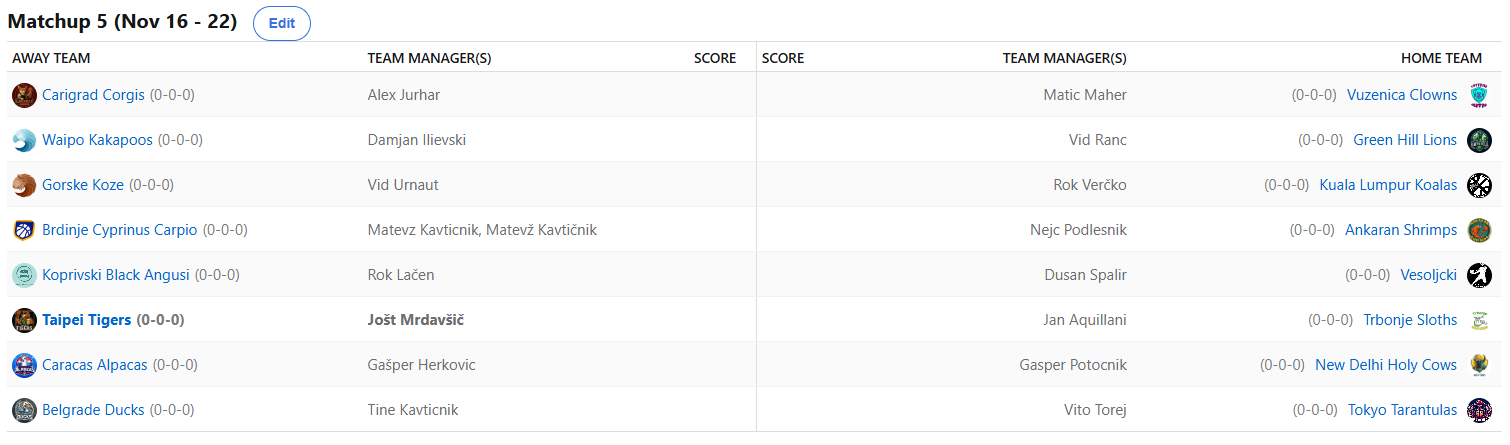
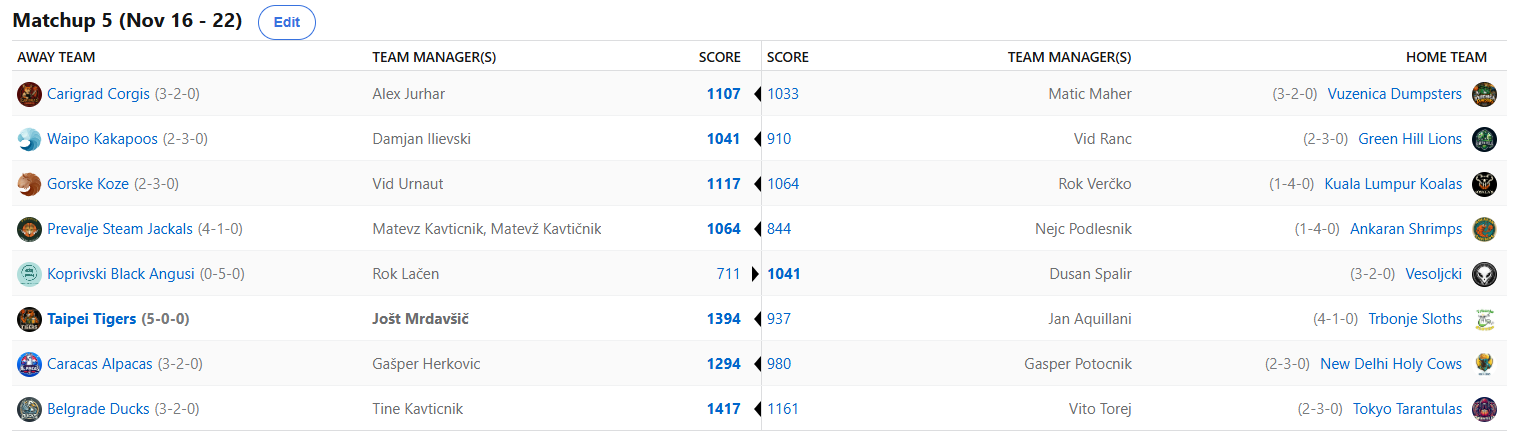
.

diff --git a/trenutnalestvica.html b/trenutnalestvica.html
@@ -25,116 +25,169 @@
         <tr>
             <th style="background-color: green">1</th>
             <th style="background-color: green">Taipei Tigers</th>
-            <th style="background-color: green">4</th>
+            <th style="background-color: green">5</th>
             <th style="background-color: green">0</th>
             <th style="background-color: green">100%</th>
         </tr>
         <tr>
             <th style="background-color: green">2</th>
-            <th style="background-color: green">Trbonje Sloths</th>
+            <th style="background-color: green">Prevalje Steam Jackals</th>
             <th style="background-color: green">4</th>
-            <th style="background-color: green">0</th>
-            <th style="background-color: green">100%</th>
+            <th style="background-color: green">1</th>
+            <th style="background-color: green">80%</th>
         </tr>
         <tr>
             <th>3</th>
-            <th>Vuzenica Dumpsters</th>
-            <th>3</th>
+            <th>Trbonje Sloths</th>
+            <th>4</th>
             <th>1</th>
-            <th>75%</th>
+            <th>80%</th>
         </tr>
         <tr>
             <th>4</th>
-            <th>Prevalje Steam Jackals</th>
+            <th>Caracas Alpacas</th>
             <th>3</th>
-            <th>1</th>
-            <th>75%</th>
+            <th>2</th>
+            <th>60%</th>
         </tr>
         <tr>
             <th>5</th>
-            <th>Tokyo Tarantulas</th>
+            <th>Belgrade Ducks</th>
+            <th>3</th>
             <th>2</th>
-            <th>2</th>
-            <th>50%</th>
+            <th>60%</th>
         </tr>
         <tr>
             <th>6</th>
-            <th>Caracas Alpacas</th>
+            <th>Vuzenica Dumpsters</th>
+            <th>3</th>
             <th>2</th>
-            <th>2</th>
-            <th>50%</th>
+            <th>60%</th>
         </tr>
         <tr>
             <th>7</th>
-            <th>Belgrade Ducks</th>
+            <th>Carigrad Corgis</th>
+            <th>3</th>
             <th>2</th>
-            <th>2</th>
-            <th>50%</th>
+            <th>60%</th>
         </tr>
         <tr>
             <th>8</th>
-            <th>Carigrad Corgis</th>
+            <th>Veseli Vesoljčki</th>
+            <th>3</th>
             <th>2</th>
-            <th>2</th>
-            <th>50%</th>
+            <th>60%</th>
         </tr>
         <tr>
             <th>9</th>
-            <th>Green Hill Lions</th>
+            <th>Tokyo Tarantulas</th>
             <th>2</th>
-            <th>2</th>
-            <th>50%</th>
+            <th>3</th>
+            <th>40%</th>
         </tr>
         <tr>
             <th>10</th>
-            <th>New Delhi Holy Cows</th>
+            <th>Gorske Koze</th>
             <th>2</th>
-            <th>2</th>
-            <th>50%</th>
+            <th>3</th>
+            <th>40%</th>
         </tr>
         <tr>
             <th>11</th>
-            <th>Veseli Vesoljčki</th>
+            <th>Green Hill Lions</th>
             <th>2</th>
-            <th>2</th>
-            <th>50%</th>
+            <th>3</th>
+            <th>40%</th>
         </tr>
         <tr>
             <th>12</th>
-            <th>Gorske Koze</th>
-            <th>1</th>
+            <th>New Delhi Holy Cows</th>
+            <th>2</th>
             <th>3</th>
-            <th>25%</th>
+            <th>40%</th>
         </tr>
         <tr>
             <th>13</th>
             <th>Waipo Kakapos</th>
-            <th>1</th>
+            <th>2</th>
             <th>3</th>
-            <th>25%</th>
+            <th>40%</th>
         </tr>
         <tr>
             <th>14</th>
-            <th>Ankaran Shrimps</th>
+            <th>Kuala Lumpur Koalas</th>
             <th>1</th>
-            <th>3</th>
-            <th>25%</th>
+            <th>4</th>
+            <th>20%</th>
         </tr>
         <tr>
             <th style="background-color: red">15</th>
-            <th style="background-color: red">Kuala Lumpur Koalas</th>
+            <th style="background-color: red">Ankaran Shrimps</th>
             <th style="background-color: red">1</th>
-            <th style="background-color: red">3</th>
-            <th style="background-color: red">25%</th>
+            <th style="background-color: red">4</th>
+            <th style="background-color: red">20%</th>
         </tr>
         <tr>
             <th style="background-color: red">16</th>
             <th style="background-color: red">Koprivski Black Angusi</th>
             <th style="background-color: red">0</th>
-            <th style="background-color: red">4</th>
+            <th style="background-color: red">5</th>
             <th style="background-color: red">0%</th>
         </tr>
     </table>  
+	
+	<h2 class="lestvica">Rezultati petega kroga</h2>
+<table style="border-collapse: collapse; width: 100%; border: none;">
+	<tr>
+        <td style="border: none; text-align: right; padding-right: 1em; color: green">🐕 Corgis</td> <!-- Ekipa 1 -->
+        <td style="border: 1px solid black; padding: 5px;background-color: green">1107</td>
+        <td style="border: 1px solid black; padding: 5px; ">1033</td>
+        <td style="border: none; text-align: left; padding-left: 1em;">Dumpsters 🗑</td> <!-- Ekipa 2 -->
+    </tr>
+	<tr>
+        <td style="border: none; text-align: right; padding-right: 1em; color: green">🦉 Kakapos   </td> <!-- Ekipa 1 -->
+        <td style="border: 1px solid black; padding: 5px; background-color: green">1041</td>
+        <td style="border: 1px solid black; padding: 5px;">910</td>
+        <td style="border: none; text-align: left; padding-left: 1em; ">Lions 🦁</td> <!-- Ekipa 2 -->
+    </tr>
+	<tr>
+        <td style="border: none; text-align: right; padding-right: 1em; color: green">🐐 Koze  </td> <!-- Ekipa 1 -->
+        <td style="border: 1px solid black; padding: 5px; background-color: green">1117</td>
+        <td style="border: 1px solid black; padding: 5px; ">1064</td>
+        <td style="border: none; text-align: left; padding-left: 1em; ">Koalas 🐨  </td> <!-- Ekipa 2 -->
+    </tr>
+	<tr>
+        <td style="border: none; text-align: right; padding-right: 1em; color: green ">🐺 Jackals   </td> <!-- Ekipa 1 -->
+        <td style="border: 1px solid black; padding: 5px; background-color: green">1064</td>
+        <td style="border: 1px solid black; padding: 5px;  ">844</td>
+        <td style="border: none; text-align: left; padding-left: 1em; ">Shrimps 🦐</td> <!-- Ekipa 2 -->
+    </tr>
+	<tr>
+        <td style="border: none; text-align: right; padding-right: 1em; ">🐮 Angusi  </td> <!-- Ekipa 1 -->
+        <td style="border: 1px solid black; padding: 5px;">711</td>
+        <td style="border: 1px solid black; padding: 5px; background-color: green ">1041</td>
+        <td style="border: none; text-align: left; padding-left: 1em; color: green  ">Vesoljčki 👽 </td> <!-- Ekipa 2 -->
+    </tr>
+	<tr>
+        <td style="border: none; text-align: right; padding-right: 1em; color: green">🐯 Tigers </td> <!-- Ekipa 1 -->
+        <td style="border: 1px solid black; padding: 5px; background-color: green">1394</td>
+        <td style="border: 1px solid black; padding: 5px;  ">937</td>
+        <td style="border: none; text-align: left; padding-left: 1em; ">Sloths 🦥</td> <!-- Ekipa 2 -->
+    </tr>
+	<tr>
+        <td style="border: none; text-align: right; padding-right: 1em;color: green">🦙 Alpacas  </td> <!-- Ekipa 1 -->
+        <td style="border: 1px solid black; padding: 5px;background-color: green">1294</td>
+        <td style="border: 1px solid black; padding: 5px; ">1980</td>
+        <td style="border: none; text-align: left; padding-left: 1em; ">Holy Cows 🐄 </td> <!-- Ekipa 2 -->
+    </tr>
+	<tr>
+        <td style="border: none; text-align: right; padding-right: 1em; color: green">🦆 Ducks  </td> <!-- Ekipa 1 -->
+        <td style="border: 1px solid black; padding: 5px;  background-color: green">1417</td>
+        <td style="border: 1px solid black; padding: 5px;">1161</td>
+        <td style="border: none; text-align: left; padding-left: 1em; ">Tarantulas 🕷  </td> <!-- Ekipa 2 -->
+    </tr>
+</table>
+	
 	
 	<h2 class="lestvica">Rezultati četrtega kroga</h2>
 <table style="border-collapse: collapse; width: 100%; border: none;">
@@ -240,63 +293,6 @@
     </tr>
 </table>
 	
-	
-	     <h2 class="lestvica">Rezultati drugega kroga</h2>
-<table style="border-collapse: collapse; width: 100%; border: none;">
-	<tr>
-        <td style="border: none; text-align: right; padding-right: 1em; ">🦐 Shrimps</td> <!-- Ekipa 1 -->
-        <td style="border: 1px solid black; padding: 5px; ">931</td>
-        <td style="border: 1px solid black; padding: 5px;background-color: green">981</td>
-        <td style="border: none; text-align: left; padding-left: 1em;color: green">Sloths 🦥 </td> <!-- Ekipa 2 -->
-    </tr>
-	<tr>
-        <td style="border: none; text-align: right; padding-right: 1em; color: green">👽 Vesoljčki </td> <!-- Ekipa 1 -->
-        <td style="border: 1px solid black; padding: 5px; background-color: green">894</td>
-        <td style="border: 1px solid black; padding: 5px;">854</td>
-        <td style="border: none; text-align: left; padding-left: 1em; ">Koalas 🐨</td> <!-- Ekipa 2 -->
-    </tr>
-	<tr>
-        <td style="border: none; text-align: right; padding-right: 1em; ">🐕 Corgis</td> <!-- Ekipa 1 -->
-        <td style="border: 1px solid black; padding: 5px; ">963</td>
-        <td style="border: 1px solid black; padding: 5px; background-color: green">1034</td>
-        <td style="border: none; text-align: left; padding-left: 1em; color: green">Lions 🦁</td> <!-- Ekipa 2 -->
-    </tr>
-	<tr>
-        <td style="border: none; text-align: right; padding-right: 1em; color: green">🐄 Holy Cows </td> <!-- Ekipa 1 -->
-        <td style="border: 1px solid black; padding: 5px; background-color: green">1170</td>
-        <td style="border: 1px solid black; padding: 5px; ">1094</td>
-        <td style="border: none; text-align: left; padding-left: 1em; ">Dumpsters 🗑</td> <!-- Ekipa 2 -->
-    </tr>
-	<tr>
-        <td style="border: none; text-align: right; padding-right: 1em; ">🕷 Tarantulas </td> <!-- Ekipa 1 -->
-        <td style="border: 1px solid black; padding: 5px;">1095</td>
-        <td style="border: 1px solid black; padding: 5px;  background-color: green">1108</td>
-        <td style="border: none; text-align: left; padding-left: 1em; color: green">Kakapos 🦉 </td> <!-- Ekipa 2 -->
-    </tr>
-	<tr>
-        <td style="border: none; text-align: right; padding-right: 1em; color: green">🦆 Ducks </td> <!-- Ekipa 1 -->
-        <td style="border: 1px solid black; padding: 5px;  background-color: green">1108</td>
-        <td style="border: 1px solid black; padding: 5px;">1049</td>
-        <td style="border: none; text-align: left; padding-left: 1em;">Koze 🐐</td> <!-- Ekipa 2 -->
-    </tr>
-	<tr>
-        <td style="border: none; text-align: right; padding-right: 1em;">🦙 Alpacas </td> <!-- Ekipa 1 -->
-        <td style="border: 1px solid black; padding: 5px;">1151</td>
-        <td style="border: 1px solid black; padding: 5px; background-color: green">1184</td>
-        <td style="border: none; text-align: left; padding-left: 1em; color: green">Jackals 🐺 </td> <!-- Ekipa 2 -->
-    </tr>
-	<tr>
-        <td style="border: none; text-align: right; padding-right: 1em; color: green">🐯 Tigers </td> <!-- Ekipa 1 -->
-        <td style="border: 1px solid black; padding: 5px; background-color: green">1422</td>
-        <td style="border: 1px solid black; padding: 5px;">1049</td>
-        <td style="border: none; text-align: left; padding-left: 1em;">Angusi 🐮</td> <!-- Ekipa 2 -->
-    </tr>
-</table>
-	
-
-    
-
-   
 
 <br> <br>
 <a href="krogi2526/bracket2526.PNG" target="_blank">

diff --git a/krogi2627/matchup5.html b/krogi2627/matchup5.html
@@ -54,7 +54,7 @@ document.addEventListener("DOMContentLoaded", function() {{
                 <details>
                     <summary>Predictions</summary>
                     <h3>Lestvica</h3>
-                    <img src="mups5lestvica.png" alt="Predictions - lestvica, matchup 5">
+                    <img src="mup5lestvica.png" alt="Predictions - lestvica, matchup 5">
                     <h3>Točke v krogu</h3>
                     <img src="mup5pregled.png" alt="Predictions - točke v krogu, matchup 5">
                     <h3>Matchups</h3>
